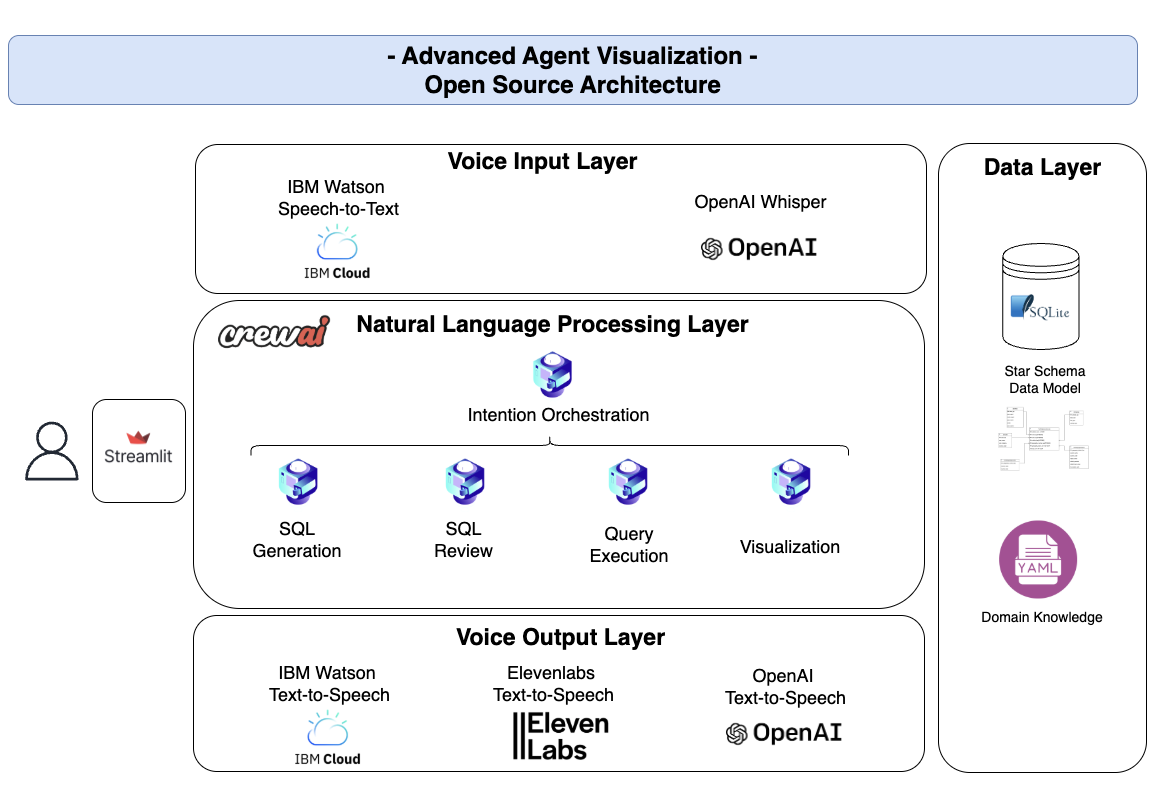
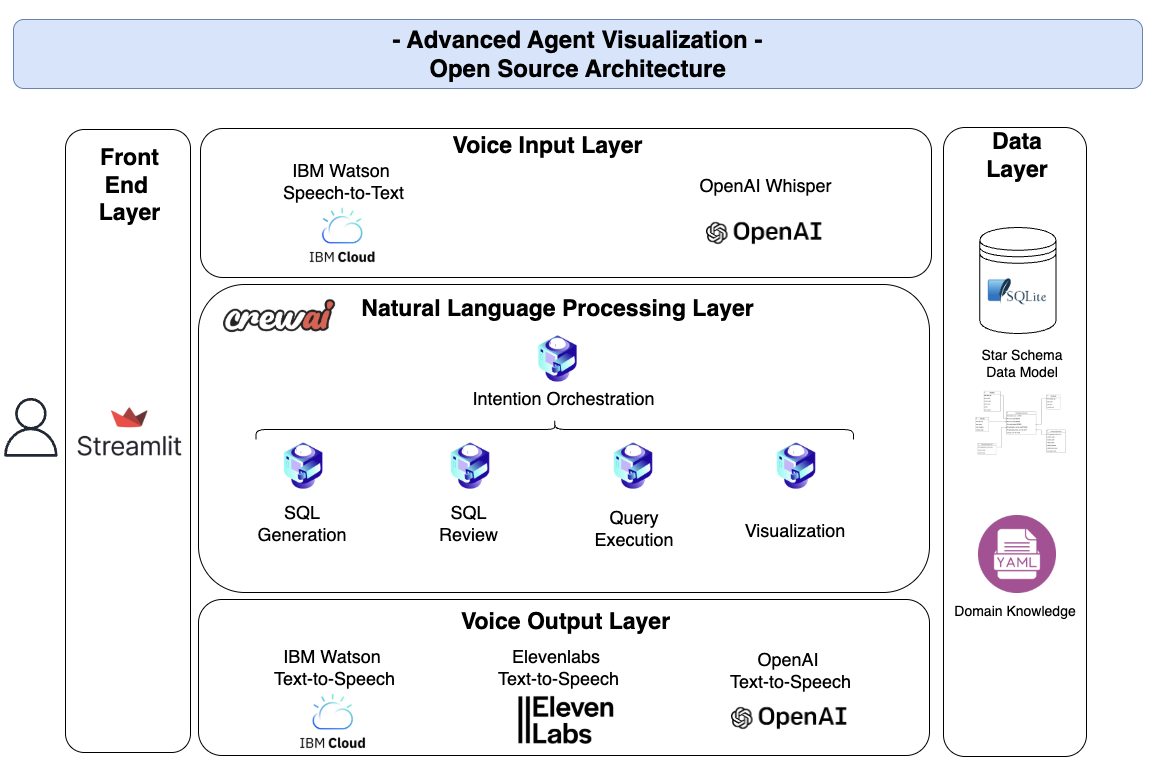
improving docs

diff --git a/docs/final_report/Report_EN.md b/docs/final_report/Report_EN.md
@@ -66,9 +66,11 @@ This report is organized into the following sections: Section 2 presents the rel
 
 ### 3.1 Multi-Modal Voice Interface Architecture
 
-The Advanced Data Visualization Agent implements a comprehensive four-layer architecture designed to provide seamless natural language database interaction through multiple modalities. The system leverages enterprise-grade AI services across each architectural layer to ensure reliability, scalability, and user accessibility.
+The Advanced Data Visualization Agent implements a comprehensive five-layer architecture designed to provide seamless natural language database interaction through multiple modalities. The system leverages enterprise-grade AI services across each architectural layer to ensure reliability, scalability, and user accessibility.
 
 ![Full Architecture](../Final_Architecture.png)
+
+**Front End Layer**: The presentation layer provides the user interface through the Streamlit framework, offering a responsive web-based application that serves as the primary interaction point for users. This layer manages the complete user experience including text input interfaces, voice recording controls, visualization displays, and audio output playback. The Streamlit framework enables rapid development and deployment while providing session state management for conversation continuity, real-time feedback during voice interactions, and seamless integration with all underlying system components. The front-end layer abstracts the complexity of multi-modal interactions, presenting users with an intuitive interface that supports both technical and non-technical users in their database exploration tasks.
 
 **Voice Input Layer**: The input layer provides dual speech-to-text capabilities through IBM Watson Speech-to-Text and OpenAI Whisper services, enabling users to interact with the system through natural speech. IBM Watson delivers enterprise-grade accuracy with confidence scoring and real-time processing optimized for business environments, while OpenAI Whisper provides robust multilingual support with advanced noise resistance for diverse audio conditions. This dual-provider approach ensures maximum accessibility and reliability, allowing users to select the most appropriate service based on their specific use case requirements, language preferences, and environmental conditions.
 
